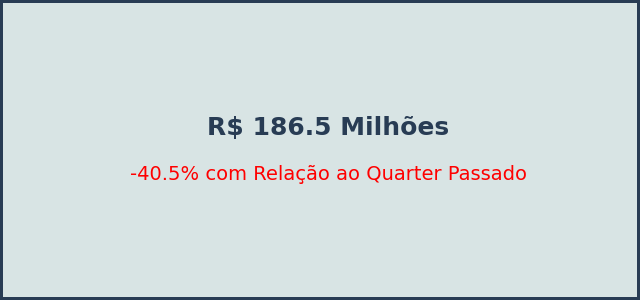
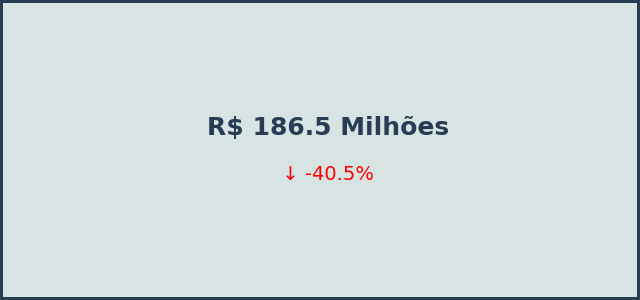
fix

Changed region(s): [[0.1875, 0.54, 0.8438, 0.6]]

diff --git a/imoveis.py b/imoveis.py
@@ -348,10 +348,9 @@ with fig_col1:
     # Plotando o gráfico
     fig, ax = plt.subplots()
     plt.text(0.5, 0.6, simplified_current_sales, ha='center', va='center', fontsize=18, color='#283c54', fontweight='bold')
-    if(proportional_difference_str<0):
-        plt.text(0.5, 0.4, f' ↓ {proportional_difference_str} com Relação ao Quarter Passado', ha='center', va='center', fontsize=14, color='red')
-    else:
-        plt.text(0.5, 0.4, f' ↑ {proportional_difference_str} com Relação ao Quarter Passado', ha='center', va='center', fontsize=14, color='green')
+   
+    plt.text(0.5, 0.4, f' ↓ {proportional_difference_str} ', ha='center', va='center', fontsize=14, color='red')
+    
 
 
     plt.axis('off')
